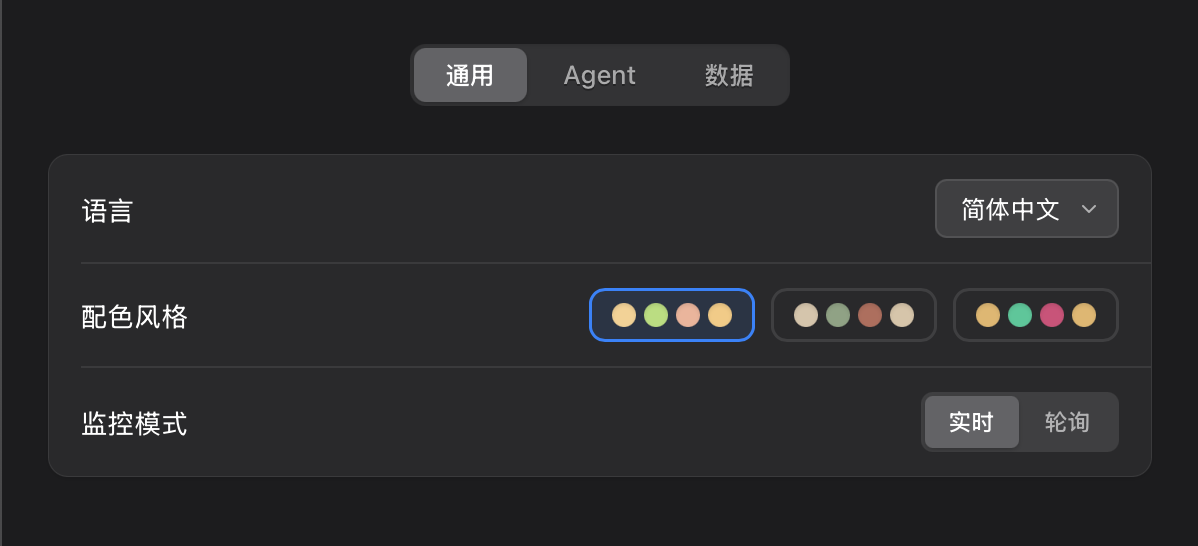
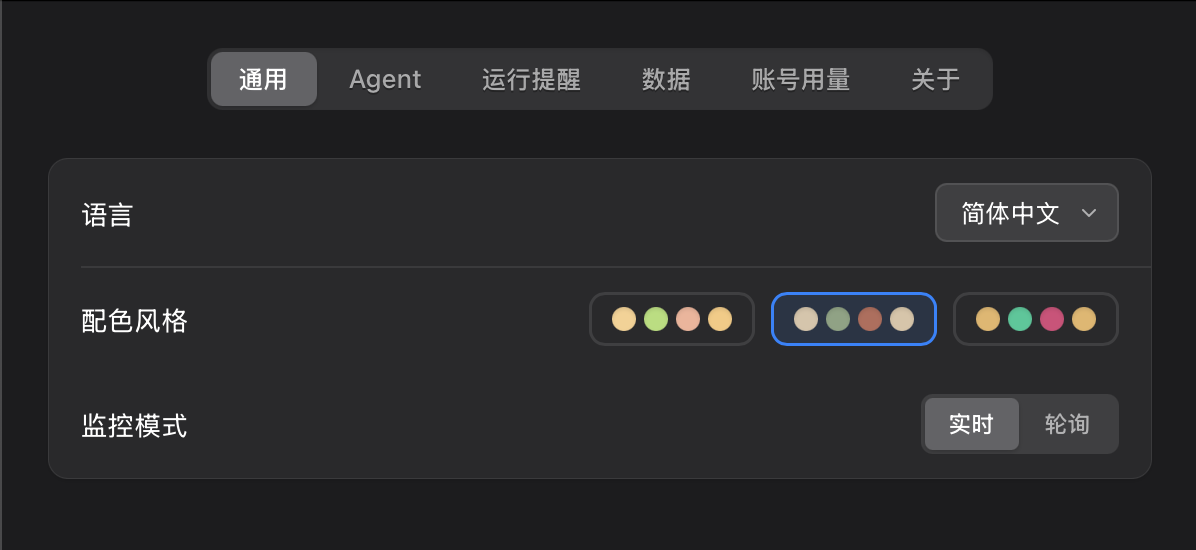
docs: 更新 README.md 内容，添加功能描述和截图，替换旧图像文件

diff --git a/README.md b/README.md
@@ -1,87 +1,141 @@
-# TokenBurger 🍔
+<div align="center">
+    <h1>TokenBurger 🍔</h1>
+    <p><strong>菜单栏 AI Token 消耗监控工具</strong></p>
+    <p>
+        实时监控本地各类 AI Coding Agent（Claude Code、Codex、OpenCode 等）的 Token 消耗，
+        看看你的汉堡什么规格 (๑╹ڡ╹) 🍔
+    </p>
+    <p>
+        <a href="https://github.com/zreo0/token-burger/releases">
+            <img alt="Release" src="https://img.shields.io/github/v/release/zreo0/token-burger?style=flat-square">
+        </a>
+        <img alt="Tauri" src="https://img.shields.io/badge/Tauri-v2-24C8DB?style=flat-square">
+        <img alt="React" src="https://img.shields.io/badge/React-18-61DAFB?style=flat-square">
+        <img alt="Rust" src="https://img.shields.io/badge/Rust-backend-DEA584?style=flat-square">
+        <a href="./LICENSE">
+            <img alt="License" src="https://img.shields.io/badge/license-MIT-green?style=flat-square">
+        </a>
+    </p>
+</div>
 
-菜单栏 AI Token 消耗监控工具。实时监控本地各类 AI Coding Agent（Claude Code、Codex、OpenCode 等）的 Token 消耗，看看你的汉堡什么规格 (๑╹ڡ╹) 🍔
+<p align="center">
+    <img src="./docs/images/menu-bar.png" alt="TokenBurger 菜单栏统计">
+</p>
 
-功能特性:
-1. 实时监控，你可以在菜单栏统计今天的 Token 总计，看看今天烧了多少！
-2. 简要的分层展示，看看你的汉堡里面都是什么料，今天的缓存还健康吗？
-3. 支持多种 Agent，开箱即用支持主流 AI Coding Agent，未来还会持续增加支持更多 Agent。
+## 为什么会有它
 
+日常经常使用 Claude Code、Codex、OpenCode 等多个工具的时候， Token 消耗是散落在各自的本地日志里。TokenBurger 把这些记录整理成菜单栏里的实时视图，让你能快速看到今天烧了多少、缓存是否健康、主要模型是谁，以及运行状态的提醒。让你感受到时刻跳动的 Token 数字，做点有意思的事儿。
 
-## 示意图
-![Menu Bar Screenshot](./docs/images/menu-bar.png)
+所有统计数据都保存在本地 SQLite 数据库中，TokenBurger 不收集、上传或共享你的任何数据。
 
-![App Screenshot](./docs/images/usage-popup.png)
+## 功能特性
 
-# 安装
+- **实时监控**：在菜单栏统计今天的 Token 总计，看看今天烧了多少。同时也可以展示账号的订阅额度使用情况。
+- **分层展示**：按输入、缓存写入、缓存读取、输出拆分 Token，快速看清汉堡里都是什么料。
+- **模型与 Agent 统计**：按 Agent 和模型聚合用量，定位主要消耗来源。
+- **多 Agent 支持**：开箱支持主流 AI Coding Agent，后续可继续扩展更多 Agent。
+- **账号用量视图**：可查看部分账号的额度窗口与使用比例，适合日常盯量。
+- **运行提醒**：手动开启后，在需要你关注的时候轻量弹出提示，例如 Codex 等待权限或当前轮次结束。
+- **本地优先**：日志解析、汇总缓存和历史统计都落在本机 SQLite，隐私更可控。
 
-通过 github release 下载预编译的安装包，或从源码构建。
+## 截图
 
+| 菜单栏监控  | 运行提醒 |
+| --- | --- |
+| <img src="./docs/images/menu-bar.jpeg" alt="TokenBurger 菜单栏" width="420"> | <img src="./docs/images/runtime-notify.png" alt="TokenBurger 运行提醒" width="420"> |
 
-# 开发
+| 用量总览 | 设置 |
+| --- | --- |
+| <img src="./docs/images/usage-popup.jpeg" alt="TokenBurger 用量总览" width="360"> | <img src="./docs/images/setting.png" alt="TokenBurger 设置页" width="420"> |
 
-## 前置依赖
+## 当前支持
+
+| Agent | 数据源 | Token 统计 | 运行提醒 |
+| --- | --- | --- | --- |
+| Claude Code | `~/.claude/projects/**/*.jsonl` | 输入、缓存写入、缓存读取、输出、模型 | 暂无 |
+| Codex | `~/.codex/sessions/**/*.jsonl` | 输入、缓存读取、输出、模型 | 权限等待、轮次完成、轮次停止 |
+| OpenCode | SQLite message 数据库，兼容旧版 JSON | 输入、缓存、输出、模型 | 轮次完成 |
+| Gemini CLI | `~/.gemini/tmp/*/chats/*.json` | 输入、输出、模型 | 暂无 |
+
+运行提醒默认关闭，可以在设置里的「运行提醒」页签手动启用。它只是轻量提示，不会代替你处理权限，也不会对 Agent 执行任何操作。
+
+## 安装
+
+从 [GitHub Releases](https://github.com/zreo0/token-burger/releases) 下载对应平台的预编译安装包，或从源码构建。
+
+## 从源码运行
+
+### 前置依赖
 
 - [Rust](https://rustup.rs/) >= 1.77
 - [Node.js](https://nodejs.org/) >= 20
-- Tauri CLI v2：`cargo install tauri-cli --version "^2"`
+- Tauri CLI v2（可选）：项目已通过 `@tauri-apps/cli` 提供本地 CLI
 
-## 安装与运行
+### 安装与运行
 
 ```bash
 # 安装前端依赖
 npm install
 
 # 开发模式（同时启动前端和 Tauri）
-npm run tauri dev
+npm run tauri:dev
 
 # 生产构建
-npm run tauri build
-```
-
-## 项目结构
-
-```
-token-burger/
-├── src/                    # 前端 (React + TypeScript)
-│   ├── components/         # 通用组件
-│   ├── hooks/              # 自定义 Hooks
-│   ├── pages/              # 页面（Popup / Setting）
-│   ├── types/              # 类型定义
-│   ├── App.tsx             # 路由入口
-│   └── main.tsx            # React 入口
-├── src-tauri/              # Rust 后端
-│   ├── src/
-│   │   ├── main.rs         # 应用入口
-│   │   ├── lib.rs          # Tauri 初始化
-│   │   ├── db/             # SQLite 数据库
-│   │   ├── watcher/        # 文件监听
-│   │   └── adapters/       # Agent 适配器
-│   ├── Cargo.toml
-│   └── tauri.conf.json
-├── package.json
-├── vite.config.ts
-└── eslint.config.js
+npm run tauri -- build
 ```
 
 ## 开发命令速查
 
 | 命令 | 说明 |
-|------|------|
+| --- | --- |
 | `npm run dev` | 启动 Vite 开发服务器 |
-| `npm run build` | 前端生产构建 |
+| `npm run tauri:dev` | 启动 Tauri 开发模式 |
+| `npm run build` | 前端类型检查与生产构建 |
+| `npm run tauri -- build` | Tauri 生产构建并生成安装包 |
 | `npm run lint` | ESLint 检查 |
 | `npm run lint:fix` | ESLint 自动修复 |
-| `npm run test` | 运行前端测试 (vitest) |
+| `npm test` | 运行前端测试（vitest） |
 | `cd src-tauri && cargo test` | 运行 Rust 测试 |
-| `npm run tauri dev` | Tauri 开发模式 |
-| `npm run tauri build` | Tauri 生产构建 |
 
-# 许可
+## 项目结构
 
-MIT License
+```text
+token-burger/
+├── src/                    # 前端（React + TypeScript）
+│   ├── components/         # 通用组件
+│   ├── hooks/              # 自定义 Hooks
+│   ├── i18n/               # 多语言文案
+│   ├── pages/              # Popup / Settings / BehaviorTip
+│   ├── types/              # 类型定义
+│   ├── App.tsx             # 路由入口
+│   └── main.tsx            # React 入口
+├── src-tauri/              # Rust 后端
+│   ├── src/
+│   │   ├── adapters/       # Agent 数据源、Token 解析、行为解析
+│   │   ├── account_usage/  # 账号用量 Provider
+│   │   ├── behavior/       # 运行提醒事件与提示窗口
+│   │   ├── db/             # SQLite 数据库
+│   │   ├── watcher/        # 文件与 SQLite 监听
+│   │   ├── lib.rs          # Tauri 初始化
+│   │   └── main.rs         # 应用入口
+│   ├── Cargo.toml
+│   └── tauri.conf.json
+├── docs/images/            # README 截图
+├── package.json
+├── vite.config.ts
+└── eslint.config.js
+```
 
+## 架构概览
 
-# 讨论与交流
+TokenBurger 的后端以 Agent 监听管线为基础：每个 Agent 先声明自己的数据源，然后同一批新增数据会分别交给 Token 解析器和行为解析器消费。这样 Token 统计和运行提醒共用底层监听，不需要重复扫描同一份日志。
 
-欢迎在 Github Issues、[LINUX DO](https://linux.do) 社区讨论功能需求、使用反馈以及 BUG 报告。
+前端通过 Tauri command 拉取汇总数据，并通过事件驱动更新菜单栏弹窗、设置页和运行提醒窗口。
+
+## 讨论与交流
+
+欢迎在 [GitHub Issues](https://github.com/zreo0/token-burger/issues)、[LINUX DO](https://linux.do) 社区讨论功能需求、使用反馈以及 Bug 报告。
+
+## 许可
+
+[MIT License](./LICENSE)